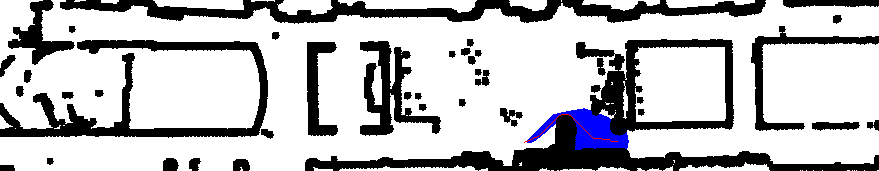
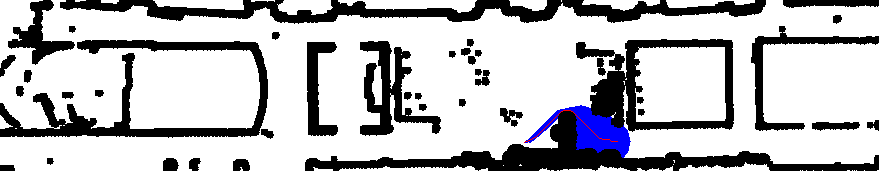
update

Changed region(s): [[0.5529, 0.614, 0.7372, 0.9649], [0.6758, 0.848, 0.7372, 0.9357], [0.6758, 0.4678, 0.7065, 0.5848]]

diff --git a/src/svea_core/src/svea/path_planners/matrix_astar3.py b/src/svea_core/src/svea/path_planners/matrix_astar3.py
@@ -41,8 +41,6 @@ class AStarPlanner:
 		"""
 		Initialize grid map for a star planning
 		"""
-		self.motion = self.get_motion_model()
-
 		init_map = init_map.reshape(height, width)
 
 		self.x_width = width
@@ -64,20 +62,24 @@ class AStarPlanner:
 							if 0 <= a < self.x_width and 0 <= b < self.y_width:
 								self.obstacle_map[a,b] = np.uint8(1)
 							t = t + np.pi/32
-		"""
-		self.grid_indices = np.zero((width,height))
+		
+		self.grid_indices = np.zeros((width,height))
 
 		for i in range(self.x_width):
 			for j in range(self.y_width):
 				self.grid_indices[i,j] = j*self.x_width + i
-		"""
 
-	class Node:
-		def __init__(self, x, y, cost, parent_index):
-			self.x = x  # index of grid
-			self.y = y  # index of grid
-			self.cost = cost
-			self.parent_index = parent_index
+		self.open_set = np.zeros((4, self.x_width*self.y_width))
+		self.closed_set = np.zeros((4, self.x_width*self.y_width))
+		
+		self.motions = np.array([[1, 0, 1],
+								[0, 1, 1],
+								[-1, 0, 1],
+								[0, -1, 1],
+								[-1, -1, np.sqrt(2)],
+								[-1, 1, np.sqrt(2)],
+								[1, -1, np.sqrt(2)],
+								[1, 1, np.sqrt(2)]])
 
 	def planning(self, obstacles, sx, sy, gx, gy):
 		if show_animation:
@@ -109,58 +111,73 @@ class AStarPlanner:
 			draw_obj.point((sx, sy), start_RGB)
 			draw_obj.point((gx, gy), goal_RGB)
 
-		start_node = self.Node(sx, sy, 0.0, -1)
-		goal_node = self.Node(gx, gy, 0.0, -1)
+		start_node = np.array([sx, sy, 0.0, -1])
+		goal_node = np.array([gx, gy, 0.0, -1])
 
-		open_set, closed_set = dict(), dict()
-		open_set[self.calc_grid_index(start_node)] = start_node
+		self.open_set[2,:] = np.inf
+		self.open_set[3,:] = 0
+		self.open_set[:, self.grid_indices[sx, sy]] = start_node
+
+		self.closed_set[2,:] = np.inf
+		self.closed_set[3,:] = 0
+		self.closed_set[:, self.grid_indices[gx, gy]] = goal_node
 
 		while 1:
-			if len(open_set) == 0:
-				print("Open set is empty..")
-				break
+			
+			w = 1.0 #Heuristic weight
+			result = self.open_set[2,:] + w*np.hypot(gx - self.open_set[0,:], gy - self.open_set[1,:])
+			c_id = np.argmin(result)
+			current = self.open_set[:,c_id]
 
-			c_id = min(open_set, key=lambda o: open_set[o].cost + self.calc_heuristic(goal_node, open_set[o]))
-			current = open_set[c_id]
+			if current[2] == np.inf:
+				print("Open set i empty")
+				break
 
 			# show graph
 			if show_animation:  # pragma: no cover
-				draw_obj.point((current.x, current.y), node_RGB)
+				draw_obj.point((current[0], current[1]), node_RGB)
 				
-			if current.x == goal_node.x and current.y == goal_node.y:
-				print("Find goal")
-				goal_node.parent_index = current.parent_index
-				goal_node.cost = current.cost
+			if current[0] == gx and current[1] == gy:
+				print("Found goal")
+				self.closed_set[2,self.grid_indices[gx, gy]] = current[2] #cost
+				self.closed_set[3,self.grid_indices[gx, gy]] = current[3] #parent index
 				break
-
+			
 			# Remove the item from the open set
-			del open_set[c_id]
+			self.open_set[:, c_id] = np.inf
 
-			# Add it to the closed set
-			closed_set[c_id] = current
+			self.closed_set[:, c_id] = current
 
 			# expand_grid search grid based on motion model
-			for i, _ in enumerate(self.motion):
-				node = self.Node(current.x + self.motion[i][0],
-									current.y + self.motion[i][1],
-									current.cost + self.motion[i][2], c_id)
-				n_id = self.calc_grid_index(node)
+			for i in range(self.motions.shape[0]):
+				node = np.array([current[0] + self.motions[i,0],
+								current[1] + self.motions[i,1],
+								current[2] + self.motions[i,2],
+								c_id])
+
+				next_id = self.grid_indices[node[0], node[1]]
 
 				# If the node is not safe, do nothing
-				if not self.verify(node.x, node.y, obstacle_map):
+
+				if self.verify(node[0], node[1], obstacle_map) == False:
 					continue
 
-				if n_id in closed_set:
+				if self.closed_set[2,next_id] != np.inf:
 					continue
 
-				if n_id not in open_set:
-					open_set[n_id] = node  # discovered a new node
+				if self.open_set[2,next_id] == np.inf:  # discovered a new node
+					self.open_set[:,next_id] = node
+					
 				else:
-					if open_set[n_id].cost > node.cost:
-						# This path is the best until now. record it
-						open_set[n_id] = node
+					if self.open_set[2,next_id] > node[2]: # This path is the best until now
+						self.open_set[:,next_id] = node
 
-		rx, ry = self.calc_final_path(goal_node, closed_set)
+		rx, ry = [goal_node[0]], [goal_node[1]]
+		parent_index = goal_node[3]
+		while parent_index != -1:
+			rx.append(self.closed_set[0,parent_index])
+			ry.append(self.closed_set[1,parent_index])
+			parent_index = self.closed_set[3,parent_index]
 		
 		if show_animation:
 			for i in range(len(rx)):
@@ -172,27 +189,6 @@ class AStarPlanner:
 		ry.reverse()
 
 		return ry, rx
-
-	def calc_final_path(self, goal_node, closed_set):
-		# generate final course
-		rx, ry = [goal_node.x], [goal_node.y]
-		parent_index = goal_node.parent_index
-		while parent_index != -1:
-			n = closed_set[parent_index]
-			rx.append(n.x)
-			ry.append(n.y)
-			parent_index = n.parent_index
-
-		return rx, ry
-
-	@staticmethod
-	def calc_heuristic(n1, n2):
-		w = 1.0  # weight of heuristic
-		d = w * math.hypot(n1.x - n2.x, n1.y - n2.y)
-		return d
-
-	def calc_grid_index(self, node):
-		return (node.y) * self.x_width + (node.x)
 
 	def verify(self, x, y, obstacle_map):
 		if x < 0:
@@ -210,19 +206,6 @@ class AStarPlanner:
 
 		return True
 
-	@staticmethod
-	def get_motion_model():
-		# dx, dy, cost
-		motion = [[1, 0, 1],
-					[0, 1, 1],
-					[-1, 0, 1],
-					[0, -1, 1],
-					[-1, -1, math.sqrt(2)],
-					[-1, 1, math.sqrt(2)],
-					[1, -1, math.sqrt(2)],
-					[1, 1, math.sqrt(2)]]
-
-		return motion
 """
 def main():
 	with open(file_path, 'rb') as f:

diff --git a/src/svea_core/src/svea/path_planners/map_explore_node.py b/src/svea_core/src/svea/path_planners/map_explore_node.py
@@ -33,8 +33,8 @@ lightweight = True
 
 frame_id="map" 
 resolution=0.05 # The map resolution [m/cell]
-width=879
-height=171
+width=879 #X-max
+height=171 #Y-max
 
 oob_delimiter = max(width,height) + 1
 
@@ -178,9 +178,10 @@ class MapExplore:
 		q = tf.transformations.quaternion_from_euler(0, 0, yaw_org)
 		self.map.info.origin = Pose(Point(x_org, y_org, 0),
 								Quaternion(q[0], q[1], q[2], q[3]))
-		# Fill in the map data
-		self.map_matrix = np.full((height, width), unknown_space, dtype=np.int8)
-		self.map.data = self.map_matrix.reshape(-1) # (self.__map.size)		
+		# Fill in the map data rows = x, cols = y	
+		
+		self.map_matrix = np.full((width, height), unknown_space, dtype=np.int8)
+		self.map.data = np.transpose(self.map_matrix).reshape(-1)
 		
 		#self.listener = tf.TransformListener()
 
@@ -191,11 +192,11 @@ class MapExplore:
 		returns weather (x, y) is inside map or not.
 		"""
 		if is_in_bounds(x, y):
-			curr_val = self.map_matrix[y, x]
+			curr_val = self.map_matrix[x, y]
 			if curr_val + value < 0:
-				self.map_matrix[y, x] = 0
+				self.map_matrix[x, y] = 0
 			elif curr_val + value < 100:
-				self.map_matrix[y, x] = curr_val + value
+				self.map_matrix[x, y] = curr_val + value
 			return True
 		else:
 			return False
@@ -245,7 +246,7 @@ class MapExplore:
 			self.add_to_map(obstacles[j,0], obstacles[j,1], occupied_space)
 			j += 1
 
-		self.map.data = self.map_matrix.reshape(-1)
+		self.map.data = np.transpose(self.map_matrix).reshape(-1)
 	
 	def collision_check(self, path_lookup, index_lookup, path):
 
@@ -253,9 +254,9 @@ class MapExplore:
 
 		plan_width = 120
 		plan_height = 120
-
-		matr = np.transpose(self.map_matrix)*path_lookup
-
+		
+		matr = self.map_matrix*path_lookup 
+		
 		collisions = np.where(matr >= 75)
 
 		if collisions[0].size != 0:
@@ -278,9 +279,9 @@ class MapExplore:
 
 			final_width = xmax - xmin - 1
 			final_height = ymax - ymin - 1
-
-			map_matr = self.map_matrix[ymin:ymax - 1, xmin:xmax - 1]
 		
+			map_matr = self.map_matrix[xmin:xmax - 1, ymin:ymax - 1]
+
 			print(xmin, xmax)
 			print(ymin, ymax)
 
@@ -296,8 +297,8 @@ class MapExplore:
 			print(start_x, start_y)
 			print(goal_x, goal_y)
 
-			map_matr[start_y - ymin, start_x - xmin] = -np.int8(1)
-			map_matr[goal_y - ymin, goal_x - xmin] = -np.int8(2)
+			map_matr[start_x - xmin, start_y - ymin] = -np.int8(1)
+			map_matr[goal_x - xmin, goal_y - ymin] = -np.int8(2)
 
 			map_slice = OccupancyGridUpdate()
 			map_slice.header.stamp = rospy.Time.now()
@@ -311,8 +312,9 @@ class MapExplore:
 		return map_slice
 
 	def reset_map(self):
-		self.map_matrix = np.full((height, width), unknown_space, dtype=np.int8)
+		self.map_matrix = np.full((width, height), unknown_space, dtype=np.int8)
 		self.map.data = self.map_matrix.reshape(-1)
+
 		
 def is_in_bounds(x, y):
 	"""Returns weather (x, y) is inside grid_map or not."""

diff --git a/src/svea_core/src/svea/path_planners/collision_node.py b/src/svea_core/src/svea/path_planners/collision_node.py
@@ -19,7 +19,7 @@ from rospy.numpy_msg import numpy_msg
 from svea_msgs.msg import VehicleState
 
 # OTHER
-from matrix_astar import AStarPlanner
+from matrix_astar2 import AStarPlanner
 
 ## COLLISION NODE PARAMS ######################################################
 update_rate = 1
@@ -66,29 +66,31 @@ class Node:
 
 	def callback_map(self, occ_map):
 		self.planner = AStarPlanner(np.asarray(occ_map.data))
-		self.rate_timeout.sleep()
 
 	def callback_problem(self, problem_map):
 
+		while self.planner == None:
+			self.rate_timeout.sleep()
+
 		obstacles = []
 
-		problem_matr = np.asarray(problem_map.data).reshape(problem_map.height, problem_map.width)
+		problem_matr = np.asarray(problem_map.data).reshape(problem_map.width, problem_map.height)
 
 		for i in range(0, problem_map.width):
 			for j in range(0, problem_map.height):
-				if problem_matr[j,i] >= 75:
-					obstacles.append((problem_map.y + j, problem_map.x + i))
-				if problem_matr[j,i] == -np.int8(1):
+				if problem_matr[i,j] >= 75:
+					obstacles.append((problem_map.x + i, problem_map.y + j))
+				if problem_matr[i,j] == -np.int8(1):
 					sx = problem_map.x + i
 					sy = problem_map.y + j
-				if problem_matr[j,i] == -np.int8(2):
+				if problem_matr[i,j] == -np.int8(2):
 					gx = problem_map.x + i
 					gy = problem_map.y + j
 		
 		print(sx,sy)
 		print(gx,gy)
 
-		y_list, x_list = self.planner.planning(obstacles, sy, sx, gy, gx)
+		y_list, x_list = self.planner.planning(obstacles, sx, sy, gx, gy)
 
 		for i in range(len(x_list)):
 			x_list[i] = x_list[i]*resolution
@@ -98,7 +100,7 @@ class Node:
 		y_new_global = []
 
 		n = len(self.global_path.poses)
-
+		print("Path length: {0}".format(n))
 		i = 0
 		while 1:
 			x = self.global_path.poses[i].pose.position.x
